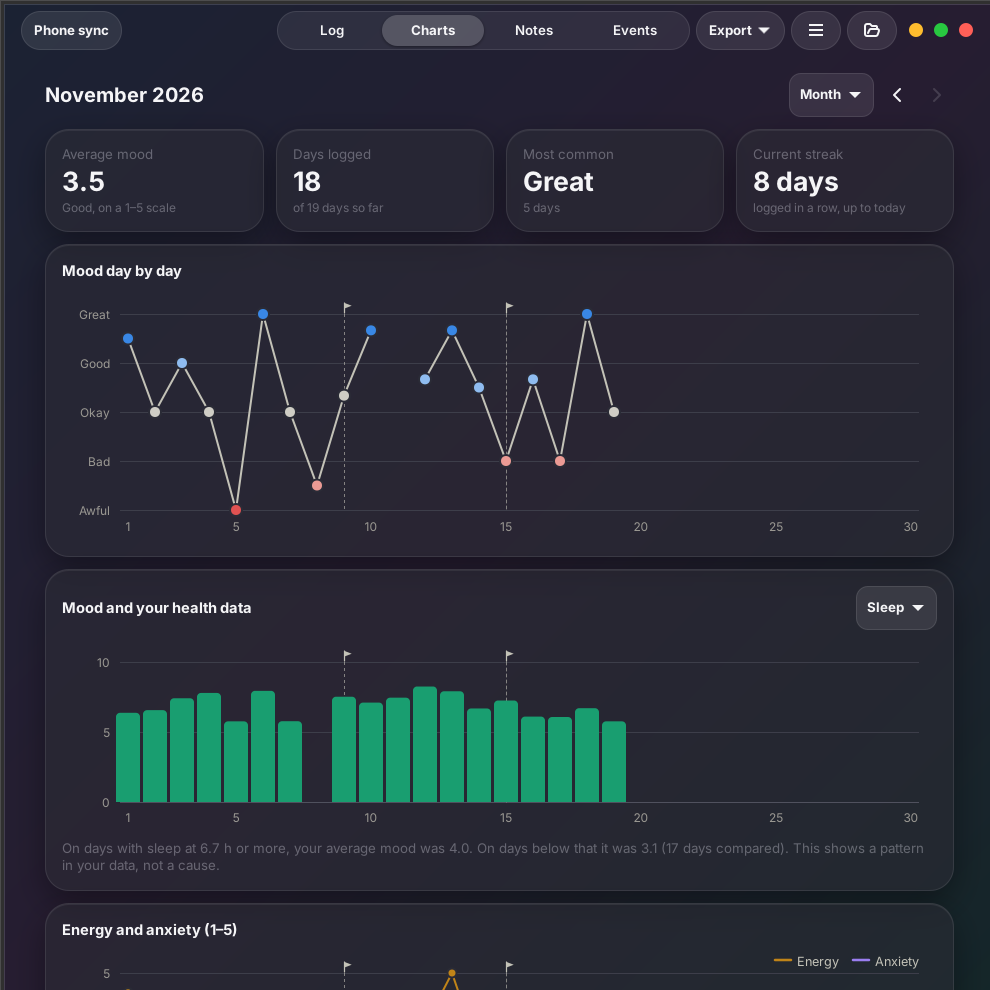
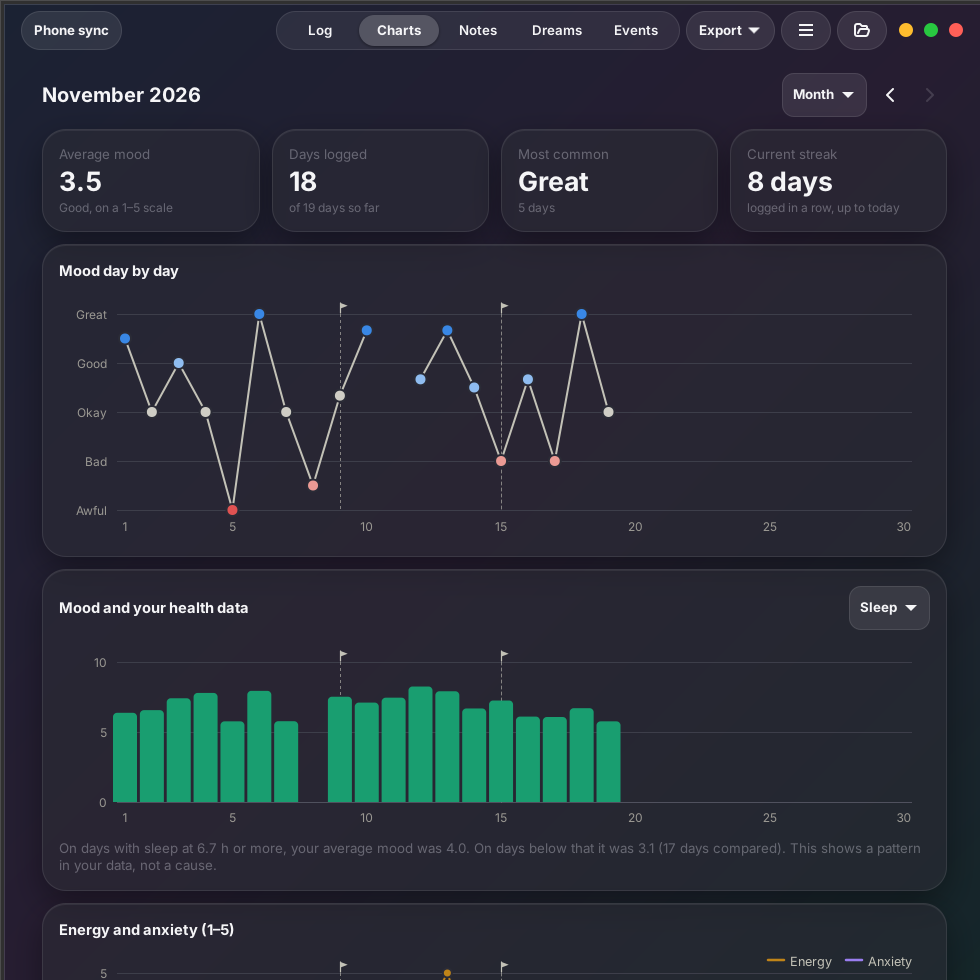
README: regroup it around what the app does, with each screenshot in its section
Fewer sections (what you can do, install, your data, for developers,
roadmap); technical details such as file formats, the receiver and the
Shortcut are folded into <details>. Screenshots retaken with the current
app (five tabs, moons in the calendar) and new ones of the Dreams tab and
the welcome tour.

diff --git a/README.md b/README.md
@@ -1,245 +1,200 @@
 # Moodlog
 
-A small, local mood tracker for Linux (GTK 4 / libadwaita, one Python file).
+A small, private mood tracker for Linux, with a companion app for iPhone. Log how
+you feel in one click, see how things go over weeks and months, mark events such as
+a medication change, keep a dream journal, and bring a clear PDF report to your
+doctor. No account and no cloud: everything stays in plain files on your devices.
 
-- **Log**: pick one of five moods, optionally rate your energy and anxiety (1-5), and add a note. A day can hold several entries, each with its own time, so you can record how your mood changes through the day. Click any past day in the month calendar to add or edit entries.
-- **Charts**: per month, per year or all time: average, days logged, most common mood, streak, mood over time, how often each mood, average by weekday and by time of day, mood next to your health data, and energy and anxiety over time.
-- **Notes**: every note, newest first, with search. Click one to jump to that day.
-- **Events**: log important events, such as a medication change. They show as a flag on the calendar day and as a dashed line on the charts, and each one shows your average mood in the two weeks before and after it.
+In English and Italian. A short welcome tour explains everything the first time
+you open it.
 
-## Screenshots
+![The Log tab: the month calendar and the selected day](docs/screenshots/log.png)
 
-These are screenshots of the real app. The PC ones use made-up sample data.
+*Screenshots of the real app with made-up sample data.*
 
-**Log**: the month calendar (days with several moods show one tile per entry, flags
-mark events) and the editor for the selected day.
+## What you can do
 
-![The Log tab with the month calendar and the day's entries](docs/screenshots/log.png)
+### Log your mood
 
-**Charts** (dark mode): mood day by day with events marked, sleep from the phone,
-energy and anxiety, and more below.
+Pick one of five faces, from Awful to Great. That's the whole job. Energy, anxiety
+(1–5) and a note are optional. A day can hold several entries, each with its own
+time, and you can fill in any past day from the calendar. Each day takes the
+colour of its mood; a day with several shows one small tile per entry.
+
+The **Notes** tab lists every note, newest first, with search.
+
+### See how things go
+
+The **Charts** tab works per month, per year or for all time: average mood, days
+logged, most common mood, your streak, mood day by day, how often each mood,
+average by weekday and by time of day, energy and anxiety, and your mood next to
+sleep and steps from your iPhone.
 
 ![The Charts tab in dark mode](docs/screenshots/charts-dark.png)
 
-**Events**: each event with your mood in the two weeks before and after it.
+### Mark what matters
+
+Log events such as a medication change or something big that happened. They show
+as a flag in the calendar and a dashed line in the charts, and each one shows your
+average mood in the two weeks before and after it.
 
 ![The Events tab](docs/screenshots/events.png)
 
-**Tahoe style** (☰ menu → Tahoe), in light and dark.
+### Keep a dream journal
 
-![The Log tab in the Tahoe style, light](docs/screenshots/tahoe-light.png)
+The **Dreams** tab is a dream journal. Each dream belongs to the morning you woke
+up: write what you remember, pick how it felt and tick tags such as nightmare,
+vivid, recurring or lucid ("Didn't remember" counts too). Nights with a dream show
+a moon in the calendar, and once there is enough data Moodlog compares your mood
+on days after a disturbing dream with other days. Dreams are private: the doctor
+report leaves them out unless you ask.
 
-![The Charts tab in the Tahoe style, dark](docs/screenshots/tahoe-dark.png)
+![The Dreams tab](docs/screenshots/dreams.png)
 
-**Moodlog for iPhone**: the month calendar on the phone, synced with the PC.
+### Bring a report to your doctor
 
-<img src="docs/screenshots/iphone-log.png" alt="The Log tab of Moodlog for iPhone" width="300">
+**Export → Report for your doctor (.pdf)** makes a printable A4 report for the
+period you choose: key numbers, your mood over time with your events marked, energy
+and anxiety, sleep, your mood around each event, and a day-by-day table. Notes and
+dreams are left out unless you tick them.
 
-**Report for your doctor**: the first page of the PDF.
+<img src="docs/screenshots/report.png" alt="First page of the doctor report" width="600">
 
-<img src="docs/screenshots/report.png" alt="First page of the doctor report PDF" width="600">
+The **Export** menu also saves everything as a spreadsheet (.xlsx, with colours and
+charts) or a plain CSV file, which open in LibreOffice Calc, Excel or Google Sheets.
 
-## Phone sync (Apple Health)
+### Use it on your iPhone too
 
-Moodlog can receive daily steps, sleep and heart rate from an iPhone, so you can
-compare them with your mood on the Charts tab.
+**Moodlog for iPhone** logs moods, energy, anxiety, notes, events and dreams on
+your phone, and syncs them with Moodlog on your PC over your home Wi-Fi, even if
+you logged while away. It can also send sleep, steps and resting heart rate from
+Apple Health. Every [release](https://github.com/Akii-G/moodlog/releases) includes
+it as `Moodlog-iPhone-<version>.ipa`; see [`ios/README.md`](ios/README.md) to install
+it with SideStore or AltStore.
 
-Apple Health has no API a PC can read, so the phone sends the data: an iPhone
-Shortcut posts the last 7 days to a small receiver on this PC over your home
-Wi-Fi. Open **Phone sync** in the title bar, switch the receiver on, and follow
-the iPhone steps shown there (address and token included).
+<img src="docs/screenshots/iphone-log.png" alt="Moodlog for iPhone" width="300">
 
-- The receiver is `moodlog --sync-server`, run as the systemd user service
-  `moodlog-sync.service`, listening on port 8765.
-- It only accepts `POST /health` requests that carry your token, and never
-  sends data out. Traffic is plain HTTP, so use it on a network you trust.
-- Values are stored in `~/.local/share/moodlog/health.csv` (`date,metric,value`).
-- Accepted formats: text lines `metric;date;value` (and `sleep;start;end;stage`),
-  JSON `{"data": "<those lines>"}`, JSON `{"date": ..., "steps": ..., ...}`,
-  and the Health Auto Export app's REST format (that one is untested).
+To connect it, open **Phone sync** on the PC, switch the receiver on, and enter the
+address and token shown there in the iPhone app's Settings.
 
-Events are kept in `events.csv` in the same folder (columns: `date,kind,title,note`).
+<details>
+<summary>Prefer a Shortcut for Apple Health instead of the app?</summary>
 
-## Export
-
-The **Export** menu in the title bar saves everything to a file:
-
-- **Spreadsheet (.xlsx)**, with colours and charts: a Summary sheet (key figures,
-  how often you logged each mood, average mood by month), a Days sheet (one row
-  per day with coloured moods, notes, events and health numbers), an Entries
-  sheet (every single mood with its time) and an Events sheet (with your mood in
-  the two weeks before and after each one).
-- **Plain CSV (.csv)**: the same day-by-day table as text, without formatting.
-
-Both open in LibreOffice Calc, Excel or Google Sheets. From a terminal:
-`moodlog --export FILE.xlsx` or `moodlog --export FILE.csv`.
-
-## Gridgets widget link
-
-If you use the [Gridgets](https://github.com/rebatnaath/gridgets) GNOME Shell
-extension, Moodlog links itself to its mood widget (same 1-5 scale):
-
-- a mood picked in the desktop widget is logged in Moodlog as a new entry with
-  the time you picked it, within a few
-  seconds if Moodlog is open, otherwise the next time you open it;
-- moods logged or changed in Moodlog are written to the widget's files in
-  `~/.local/share/gridgets/mood/`. Gridgets reads those when it starts, so the
-  widget shows them after the next unlock or login.
-
-The widget holds one mood per day, so Moodlog gives it the day's latest entry.
-Moodlog's CSV stays the source of truth. The link only runs while Moodlog is
-open and can be switched off at the bottom of the Log tab. Gridgets itself is
-not modified.
-
-### Moodlog for iPhone
-
-There is also a native iPhone app (in `ios/`): log moods, energy, anxiety, notes
-and events on your phone, and they sync with Moodlog on your PC through the same
-receiver (newest change wins; deletions sync too). It can send Apple Health data
-as well, so it can replace the shortcut. Every [release](https://github.com/Akii-G/moodlog/releases)
-includes it as `Moodlog-iPhone-<version>.ipa`. See [`ios/README.md`](ios/README.md) for
-how to install it (SideStore or AltStore) and connect it.
-
-### iPhone shortcut
-
-A ready-made shortcut is available here:
+A ready-made shortcut sends the last 7 days of steps, resting heart rate and sleep:
 **[Get "Moodlog Sync" for Shortcuts](https://www.icloud.com/shortcuts/db962227cb6547b4b480a1060afb0b9f)**
-
-It sends the last 7 days of steps, resting heart rate and sleep to Moodlog.
 
 1. In Moodlog, open **Phone sync** and switch the receiver on. Keep that window
    open for the address and token.
-2. Open the link above on your iPhone and tap **Get Shortcut**. Shortcuts asks two
-   questions:
-   - **Address**: the address shown in Phone sync, for example
-     `http://your-pc.local:8765/health`.
-   - **Header**: tap **Add new header**, enter `Authorization` as the key and
-     `Bearer ` followed by your token as the value.
-3. Run the shortcut once and allow access to Health. If iOS says the shortcut is
-   not allowed to share that many Health items, turn on **Allow Sharing Large
-   Amounts of Data** in Settings → Apps → Shortcuts → Advanced, then run it again.
-4. To sync every day: Shortcuts → **Automation** → **+** → **Time of Day**, pick a
-   time when you usually use your phone (Health data can't be read while the
-   iPhone is locked), choose **Run Immediately** and select the shortcut.
+2. Open the link on your iPhone and tap **Get Shortcut**. For **Address** enter the
+   address shown in Phone sync (for example `http://your-pc.local:8765/health`); for
+   **Header**, add `Authorization` with the value `Bearer ` followed by your token.
+3. Run it once and allow access to Health. If iOS says it can't share that many
+   Health items, turn on **Allow Sharing Large Amounts of Data** in Settings → Apps →
+   Shortcuts → Advanced.
+4. To sync every day: Shortcuts → **Automation** → **+** → **Time of Day**, pick a time
+   when you usually use your phone, choose **Run Immediately** and select the shortcut.
 
-The iPhone and the PC must be on the same Wi-Fi, and the PC must be on when the
-shortcut runs. Days that were missed are filled in on the next run.
+The iPhone and the PC must be on the same Wi-Fi and the PC must be on. Missed days
+are filled in on the next run.
+</details>
 
-## Styles
+### Make it yours
 
-The menu button (☰) in the title bar switches between two styles, and Moodlog
-remembers your choice:
+The ☰ menu switches between two styles, **Default** (GNOME) and **Tahoe**
+(macOS-like, with frosted cards and pill buttons), both in light and dark. It also
+has the language (English, Italian, or your system's), what's new after each update,
+and the welcome tour.
 
-- **Default (GNOME)**: the standard libadwaita look, matching other GNOME apps.
-- **Tahoe (macOS-like)**: frosted, translucent cards on a soft colour wash, pill
-  buttons and tabs, macOS blue, rounder corners and red/yellow/green window
-  buttons. GTK cannot blur what is behind a window, so the glass effect is drawn
-  inside the app. Both follow your light or dark setting.
+![The Tahoe style, light](docs/screenshots/tahoe-light.png)
 
-## Dream journal
+![The Tahoe style, dark](docs/screenshots/tahoe-dark.png)
 
-The **Dreams** tab (on the PC and on the iPhone) is a dream journal. Each dream
-belongs to the morning you woke up. Write what you remember, pick how it felt
-(pleasant, neutral or disturbing) and tick tags such as nightmare, vivid,
-recurring or lucid; on a night you can't remember, tick "Didn't remember", which
-counts too. Nights with a dream show a moon in the calendar. The tab and Charts
-show how many nights had a dream or a nightmare and, once there is enough data,
-your mood on days after a disturbing dream compared with other days. Dreams sync
-between the iPhone and the PC like moods, and are kept in `dreams.csv`
-(`date,feeling,tags,text,id,updated,deleted`).
+The tour dims the window except for the part it explains, and walks through
+everything in a few calm steps. The iPhone app has its own, which switches to each
+tab as it goes.
 
-Dreams are private: the doctor report leaves them out unless you tick "Include
-dreams" (how many, and the nightmare nights marked in the day-by-day table), and
-"Also what the dreams were about" adds the text.
-
-## Report for your doctor
-
-**Export → Report for your doctor (.pdf)** makes a printable A4 report for a period
-you choose (last 30 days, 3 or 6 months, this year, everything, or your own dates):
-key numbers, how often each mood was logged, your mood over time with your events
-(such as medication changes) marked and numbered, energy and anxiety, sleep, a
-table of the events with your mood in the two weeks before and after each one,
-and a day-by-day table. Notes and dreams are left out unless you tick "Include my
-notes" or "Include dreams". From a terminal:
-`moodlog --report FILE.pdf --from 2026-09-01 --to 2026-11-30` (add `--notes`,
-`--dreams` or `--dream-text`).
-
-## Backup, restore and two computers
-
-The folder button in the title bar has **Back up…** (one .zip file with all your
-data) and **Restore from a backup…**. Restoring always saves a copy of your current
-data first, in `backups/` inside your data folder.
-
-**Data folder and sync…** lets you keep your data in another folder, for example
-one that Syncthing or Nextcloud keeps in sync, so you can use Moodlog on two
-computers. Choose the folder on both. When the second computer already has data of
-its own, choose **Merge** to combine both. Moodlog picks up changes from the other
-computer within a few seconds. If both change something at the same moment and the
-sync app makes a conflict copy, Moodlog shows a bar at the top to merge it, so
-nothing is lost. Settings such as the Gridgets link stay on each computer
-(`~/.config/moodlog/`).
-
-## Your data
-
-Your moods are in a plain CSV file, `~/.local/share/moodlog/moods.csv` (or in the folder you chose)
-(columns: `date,time,mood,energy,anxiety,note,id,updated,deleted`; one row per entry, time is `HH:MM` or empty, mood is 1 = awful to 5 = great, energy and anxiety are 1-5 or empty). In the calendar, a day with one entry is coloured by that mood, and a day with several shows a small grid with one tile per entry, in time order. A day's point in the charts is the average of its entries. Nothing leaves your
-computer. The folder button in the title bar opens that folder and makes backups.
-
-## Languages
-
-Moodlog is in English and Italian, on the PC and on the iPhone. It follows your
-system language. On the PC you can also choose one in the ☰ menu → **Language**; on the
-iPhone, in Settings → Moodlog → Language. Dates, charts, the doctor report and exports
-follow the chosen language; your notes and the data files stay as they are.
-
-To add a language: copy `po/moodlog.pot` to `po/<code>.po` and fill in the `msgstr`
-lines (any gettext editor such as Poedit works), add the code to `LANGUAGES` in
-`src/moodlog`, and for the iPhone copy `ios/Moodlog/it.lproj` to `<code>.lproj`.
-`tools/extract_strings.py --check` and `tools/extract_ios_strings.py --check` list
-anything still missing.
-
-## Welcome tour
-
-The first time you open Moodlog, a short tour walks you through the window: it dims
-everything except the part it is talking about, highlights it, and explains it in a
-few calm sentences. Skip it whenever you like (Escape), or use the arrow keys. See it
-again from the ☰ menu → **Show the tour**. Moodlog for iPhone has its own tour, which
-switches to each tab as it explains it (Settings → **Show the tour**).
-
-## What's new
-
-After each update Moodlog shows what changed, once. You can open the full list again from the ☰ menu → **What's new**, or read [CHANGELOG.md](CHANGELOG.md).
+![The welcome tour](docs/screenshots/tour.png)
 
 ## Install
 
+Download `moodlog_<version>_all.deb` from the
+[latest release](https://github.com/Akii-G/moodlog/releases/latest), then:
+
     sudo apt install ./moodlog_2.4.0_all.deb
 
-Remove with `sudo apt remove moodlog` (your CSV is kept).
+Remove it with `sudo apt remove moodlog`; your data is kept. For the iPhone app, see
+[`ios/README.md`](ios/README.md).
 
-## Run from source
+## Your data
+
+Everything is in plain CSV files in `~/.local/share/moodlog/`, or in a folder you
+choose: `moods.csv`, `events.csv`, `dreams.csv` and `health.csv`. Nothing leaves your
+devices, there is no account, and the iPhone only talks to your own PC.
+
+- **Back up and restore**: the folder button in the title bar makes one .zip with
+  all your data and restores it (your current data is saved first).
+- **Two computers**: *Data folder and sync…* can keep your data in a folder that
+  Syncthing or Nextcloud syncs. Moodlog merges both computers' data and any conflict
+  copies, so nothing is lost.
+- **Gridgets**: if you use the [Gridgets](https://github.com/rebatnaath/gridgets)
+  GNOME extension, Moodlog links with its mood widget both ways (switch it off at
+  the bottom of the Log tab).
+
+<details>
+<summary>File formats and the phone sync receiver</summary>
+
+- `moods.csv`: `date,time,mood,energy,anxiety,note,id,updated,deleted`, one row per
+  entry; mood is 1 (awful) to 5 (great), energy and anxiety 1–5 or empty.
+- `events.csv`: `date,kind,title,note,id,updated,deleted`.
+- `dreams.csv`: `date,feeling,tags,text,id,updated,deleted` (date = the morning you
+  woke up).
+- `health.csv`: `date,metric,value`.
+- Changes carry an id and a time, so the newest change wins and deletions sync too.
+
+The receiver is `moodlog --sync-server`, run as the systemd user service
+`moodlog-sync.service` on port 8765. It only accepts requests that carry your token
+and restarts itself after an update. Traffic is plain HTTP, so use it on a network
+you trust. It accepts `POST /api/sync` from the iPhone app and `POST /health` with
+text lines `metric;date;value` (and `sleep;start;end;stage`), JSON
+`{"data": "<those lines>"}`, JSON `{"date": ..., "steps": ..., ...}` or the Health
+Auto Export app's REST format (untested).
+
+From a terminal: `moodlog --export FILE.xlsx` (or `.csv`) and
+`moodlog --report FILE.pdf --from 2026-09-01 --to 2026-11-30` (add `--notes`,
+`--dreams` or `--dream-text`).
+</details>
+
+## For developers
+
+Moodlog for the PC is one Python file, `src/moodlog` (GTK 4 and libadwaita); the
+iPhone app is SwiftUI, in `ios/`, built by GitHub Actions.
 
     sudo apt install python3-gi python3-gi-cairo gir1.2-gtk-4.0 gir1.2-adw-1 python3-openpyxl
-    ./src/moodlog
+    ./src/moodlog          # run from source
+    ./build-deb.sh         # build the .deb
 
-## Build the .deb
-
-    ./build-deb.sh
-
-## Licence
-
-MIT
-
-## Tests
-
-The scripts in `test/` check the storage, the phone-sync parser, events and the
-Gridgets link, and the translations (`python3 test/test_store.py`, `test/test_i18n.py` and so on). The `ui*.py` and
+The scripts in `test/` check storage, merging, sync, events, dreams, the Gridgets
+link and the translations (`python3 test/test_store.py` and so on); the `ui*.py` and
 `interact.py` scripts drive the real window and need a display (or `xvfb-run`).
+
+**Translations** are gettext `.po` files in `po/` (PC) and `.lproj` folders in
+`ios/Moodlog/` (iPhone). To add a language, copy `po/moodlog.pot` to `po/<code>.po`
+and fill in the `msgstr` lines (Poedit works), add the code to `LANGUAGES` in
+`src/moodlog`, and copy `ios/Moodlog/it.lproj` to `<code>.lproj`.
+`tools/extract_strings.py --check` and `tools/extract_ios_strings.py --check` list
+anything still missing.
+
+Changes are in [CHANGELOG.md](CHANGELOG.md).
 
 ## Roadmap
 
 ![Moodlog roadmap](docs/roadmap.png)
 
-Moodlog is for people who track their mood for their health and want to keep that data
-private. Next: making it solid for them (languages, a first-run welcome, a privacy
-policy, accessibility), then Flathub for every Linux distro, then the iPhone and Mac
-App Stores, then Windows. See [ROADMAP.md](ROADMAP.md) for the details.
+Moodlog is for people who track their mood for their health and want to keep that
+data private. Next: a plain privacy policy and accessibility, then Flathub for every
+Linux distro, then the iPhone and Mac App Stores, then Windows. See
+[ROADMAP.md](ROADMAP.md) for the details.
+
+## Licence
+
+MIT
